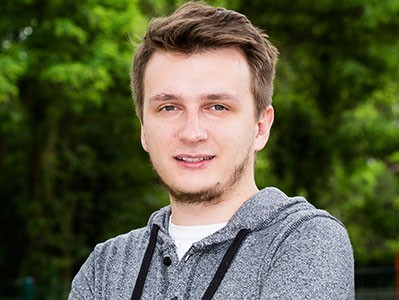
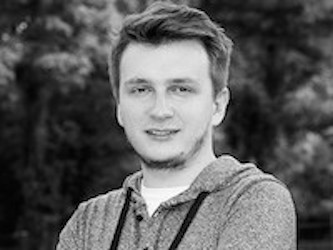
Updates

diff --git a/css/main.css b/css/main.css
@@ -10,13 +10,13 @@
   right: 35px;
   top: 35px;
   cursor: pointer;
-  transition: all 1.5s ease-in-out; }
+  transition: all 1s ease-in-out; }
   .menu-btn .btn-line {
     width: 28px;
     height: 3px;
     margin: 0 0 5px 0;
     background: #fff;
-    transition: all 1.5s ease-in-out; }
+    transition: all 1s ease-in-out; }
   .menu-btn.close {
     transform: rotate(180deg); }
     .menu-btn.close .btn-line:nth-child(1) {
@@ -49,24 +49,24 @@
     background: #19232f;
     list-style: none;
     transform: translate3d(0, -100%, 0);
-    transition: all 1.5s ease-in-out; }
+    transition: all 1s ease-in-out; }
     .menu-nav.show {
       transform: translate3d(0, 0, 0); }
   .menu-branding {
     background: #222f40;
     transform: translate3d(0, 100%, 0);
-    transition: all 1.5s ease-in-out; }
+    transition: all 1s ease-in-out; }
     .menu-branding.show {
       transform: translate3d(0, 0, 0); }
     .menu-branding .portrait {
-      width: 250px;
-      height: 250px;
+      width: 15rem;
+      height: 15rem;
       background: url("../img/portrait.jpg");
       border-radius: 50%;
-      border: solid 3px #f4d35e; }
+      border: solid 5px #f4d35e; }
   .menu .nav-item {
     transform: translate3d(600px, 0, 0);
-    transition: all 1.5s ease-in-out; }
+    transition: all 1s ease-in-out; }
     .menu .nav-item.show {
       transform: translate3d(0, 0, 0); }
     .menu .nav-item.current > a {
@@ -77,10 +77,10 @@
     font-size: 30px;
     text-transform: uppercase;
     padding: 1rem 0;
-    font-weight: 300;
+    font-weight: 400;
     color: #fff;
     text-decoration: none;
-    transition: all 1.5s ease-in-out; }
+    transition: all 1s ease-in-out; }
     .menu .nav-link:hover {
       color: #f4d35e; }
 
@@ -102,8 +102,8 @@
 body {
   background: #222f40;
   color: #fff;
-  height: 100%;
-  margin: 0;
+  height: 50%;
+  margin: 5;
   font-family: 'Montserrat', sans-serif;
   line-height: 1.5; }
   body#bg-img {
@@ -117,7 +117,7 @@ body {
       right: 0;
       width: 100%;
       height: 100%;
-      background: rgba(34, 47, 64, 0.9);
+      background: rgba(34, 47, 64, 0.5);
       z-index: -1; }
 
 h1,
@@ -134,7 +134,7 @@ h3 {
   h3.sm-heading {
     margin-bottom: 2rem;
     padding: 0.2rem 1rem;
-    background: rgba(38, 52, 71, 0.5); }
+    background: rgba(35, 48, 66, 0.5); }
 
 a {
   color: #fff;
@@ -157,7 +157,7 @@ main {
       padding: 0.4rem; }
       main .icons a:hover {
         color: #f4d35e;
-        transition: all 1.5s ease-in-out; }
+        transition: all 1s ease-in-out; }
   main#home {
     overflow: hidden; }
     main#home h1 {
@@ -185,8 +185,8 @@ main {
   .about-info .job-4 {
     grid-area: job4; }
   .about-info .job {
-    background: #2b3b51;
-    padding: 1rem;
+    background: #253345;
+    padding: 0.5rem;
     border-bottom: #f4d35e 5px solid; }
 
 .projects {
@@ -194,25 +194,28 @@ main {
   grid-gap: 0.7rem;
   grid-template-columns: repeat 3, 1fr; }
   .projects img {
-    width: 100%;
+    width: 25rem;
+    height: 25rem;
     border: 3px #fff solid; }
     .projects img:hover {
       opacity: 0.5;
       border-color: #f4d35e;
-      transition: all 1.5s ease-in-out; }
+      transition: all 1s ease-in-out; }
 
 .boxes {
   display: flex;
   flex-wrap: wrap;
   justify-content: space-evenly;
   align-content: center;
-  margin-top: 1rem; }
+  margin-top: 0.5rem;
+  margin-left: 0.5rem;
+  margin-right: 0.5rem; }
   .boxes div {
     font-size: 2rem;
-    border: 3px #ffffff solid;
-    padding: 1.5rem 2.5rem;
-    margin-bottom: 3rem;
-    transition: all 1.5s ease-in-out; }
+    border: 0px #ffffff solid;
+    padding: 1rem 0.5rem;
+    margin-bottom: 2rem;
+    transition: all 1s ease-in-out; }
     .boxes div:hover {
       padding: 0.5rem 1rem;
       background: #f4d35e;
@@ -222,7 +225,7 @@ main {
 
 .btn, .btn-dark, .btn-light {
   display: block;
-  padding: 0.5rem 1rem;
+  padding: 0.5rem 0.5rem;
   border: 0;
   margin-bottom: 0.3rem; }
   .btn:hover, .btn-dark:hover, .btn-light:hover {

diff --git a/about.html b/about.html
@@ -5,6 +5,7 @@
     <meta charset="UTF-8">
     <meta name='viewport' content='initial-scale=1, viewport-fit=cover'>
     <meta http-equiv="X-UA-Compatible" content="ie=edge">
+    <link href="https://fonts.googleapis.com/css?family=Montserrat:600" rel="stylesheet">
     <link rel="stylesheet" href="https://use.fontawesome.com/releases/v5.2.0/css/all.css" integrity="sha384-hWVjflwFxL6sNzntih27bfxkr27PmbbK/iSvJ+a4+0owXq79v+lsFkW54bOGbiDQ"
         crossorigin="anonymous">
     <link rel="stylesheet" href="css/main.css">
@@ -74,7 +75,8 @@
                 <h5>IT and English Teacher</h5>
                 <p>Lorem, ipsum dolor sit amet consectetur adipisicing elit. At non minus aut velit temporibus ab magnam
                     doloremque! Repellendus facilis adipisci voluptatibus magnam pariatur quod ab! Odit iusto doloribus harum
-                    facilis.</p>
+                    facilis.
+                </p>
             </div>
 
             <div class="job job-2">
@@ -82,22 +84,25 @@
                 <h5>English Teacher</h5>
                 <p>Lorem, ipsum dolor sit amet consectetur adipisicing elit. At non minus aut velit temporibus ab magnam
                     doloremque! Repellendus facilis adipisci voluptatibus magnam pariatur quod ab! Odit iusto doloribus harum
-                    facilis.</p>
+                    facilis.
+                </p>
             </div>
 
             <div class="job job-3">
-                <h3>English to Polish and Polish to English Translator</h3>
+                <h3 class>English to Polish and Polish to English Translator</h3>
                 <h5>Freelancer</h5>
                 <p>Lorem, ipsum dolor sit amet consectetur adipisicing elit. At non minus aut velit temporibus ab magnam
                     doloremque! Repellendus facilis adipisci voluptatibus magnam pariatur quod ab! Odit iusto doloribus harum
-                    facilis.</p>
+                    facilis.
+                </p>
             </div>
             <div class="job job-4">
                 <h3>Freelance Webwork</h3>
                 <h5>Webdesigner/Coder</h5>
                 <p>Lorem, ipsum dolor sit amet consectetur adipisicing elit. At non minus aut velit temporibus ab magnam
                     doloremque! Repellendus facilis adipisci voluptatibus magnam pariatur quod ab! Odit iusto doloribus harum
-                    facilis.</p>
+                    facilis.
+                </p>
             </div>
         </div>
     </main>

diff --git a/index.html b/index.html
@@ -5,6 +5,7 @@
     <meta charset="UTF-8">
     <meta name='viewport' content='initial-scale=1, viewport-fit=cover'>
     <meta http-equiv="X-UA-Compatible" content="ie=edge">
+    <link href="https://fonts.googleapis.com/css?family=Montserrat:600" rel="stylesheet">
     <link rel="stylesheet" href="https://use.fontawesome.com/releases/v5.2.0/css/all.css" integrity="sha384-hWVjflwFxL6sNzntih27bfxkr27PmbbK/iSvJ+a4+0owXq79v+lsFkW54bOGbiDQ"
         crossorigin="anonymous">
     <link rel="stylesheet" href="css/main.css">
@@ -54,7 +55,7 @@
             <span class="text-secondary">Sobczyk</span>
         </h1>
         <h2 class="sm-heading">
-            English and IT Teacher, English Translator and Copywriter, Amateur Graphic & Web Developer
+            English and IT Teacher, English Translator and Copywriter,<br> Amateur Graphic & Web Developer.
         </h2>
         <div class="icons">
             <a href="https://twitter.com/joiny20">
@@ -63,10 +64,10 @@
             <a href="https://www.facebook.com/another.hater">
                 <i class="fab fa-facebook fa-2x"></i>
             </a>
-            <a href="http://">
+            <a href="https://www.reddit.com/user/Joiny20/">
                 <i class="fab fa-reddit fa-2x"></i>
             </a>
-            <a href="http://">
+            <a href="https://www.last.fm/pl/user/joiny20">
                 <i class="fab fa-lastfm fa-2x"></i>
             </a>
         </div>

diff --git a/contact.html b/contact.html
@@ -5,6 +5,7 @@
     <meta charset="UTF-8">
     <meta name='viewport' content='initial-scale=1, viewport-fit=cover'>
     <meta http-equiv="X-UA-Compatible" content="ie=edge">
+    <link href="https://fonts.googleapis.com/css?family=Montserrat:600" rel="stylesheet">
     <link rel="stylesheet" href="https://use.fontawesome.com/releases/v5.2.0/css/all.css" integrity="sha384-hWVjflwFxL6sNzntih27bfxkr27PmbbK/iSvJ+a4+0owXq79v+lsFkW54bOGbiDQ"
         crossorigin="anonymous">
     <link rel="stylesheet" href="css/main.css">
@@ -71,6 +72,22 @@
                 <span class="text-secondary">Address:</span>
                 Czapelska 38, Warsaw, Poland
             </div>
+        </div>
+        <div class="icons">
+            <center>
+                <a href="https://twitter.com/joiny20">
+                    <i class="fab fa-twitter fa-2x"></i>
+                </a>
+                <a href="https://www.facebook.com/another.hater">
+                    <i class="fab fa-facebook fa-2x"></i>
+                </a>
+                <a href="https://www.reddit.com/user/Joiny20/">
+                    <i class="fab fa-reddit fa-2x"></i>
+                </a>
+                <a href="https://www.last.fm/pl/user/joiny20">
+                    <i class="fab fa-lastfm fa-2x"></i>
+                </a>
+            </center>
         </div>
     </main>
 

diff --git a/work.html b/work.html
@@ -5,6 +5,7 @@
     <meta charset="UTF-8">
     <meta name='viewport' content='initial-scale=1, viewport-fit=cover'>
     <meta http-equiv="X-UA-Compatible" content="ie=edge">
+    <link href="https://fonts.googleapis.com/css?family=Montserrat:600" rel="stylesheet">
     <link rel="stylesheet" href="https://use.fontawesome.com/releases/v5.2.0/css/all.css" integrity="sha384-hWVjflwFxL6sNzntih27bfxkr27PmbbK/iSvJ+a4+0owXq79v+lsFkW54bOGbiDQ"
         crossorigin="anonymous">
     <link rel="stylesheet" href="css/main.css">
@@ -56,7 +57,7 @@
             </span>
         </h1>
         <h2 class="sm-heading">
-            Check out my previous and current projects.
+            Check out my previous and current projects!
         </h2>
         <div class="projects">
             <div class="item">
